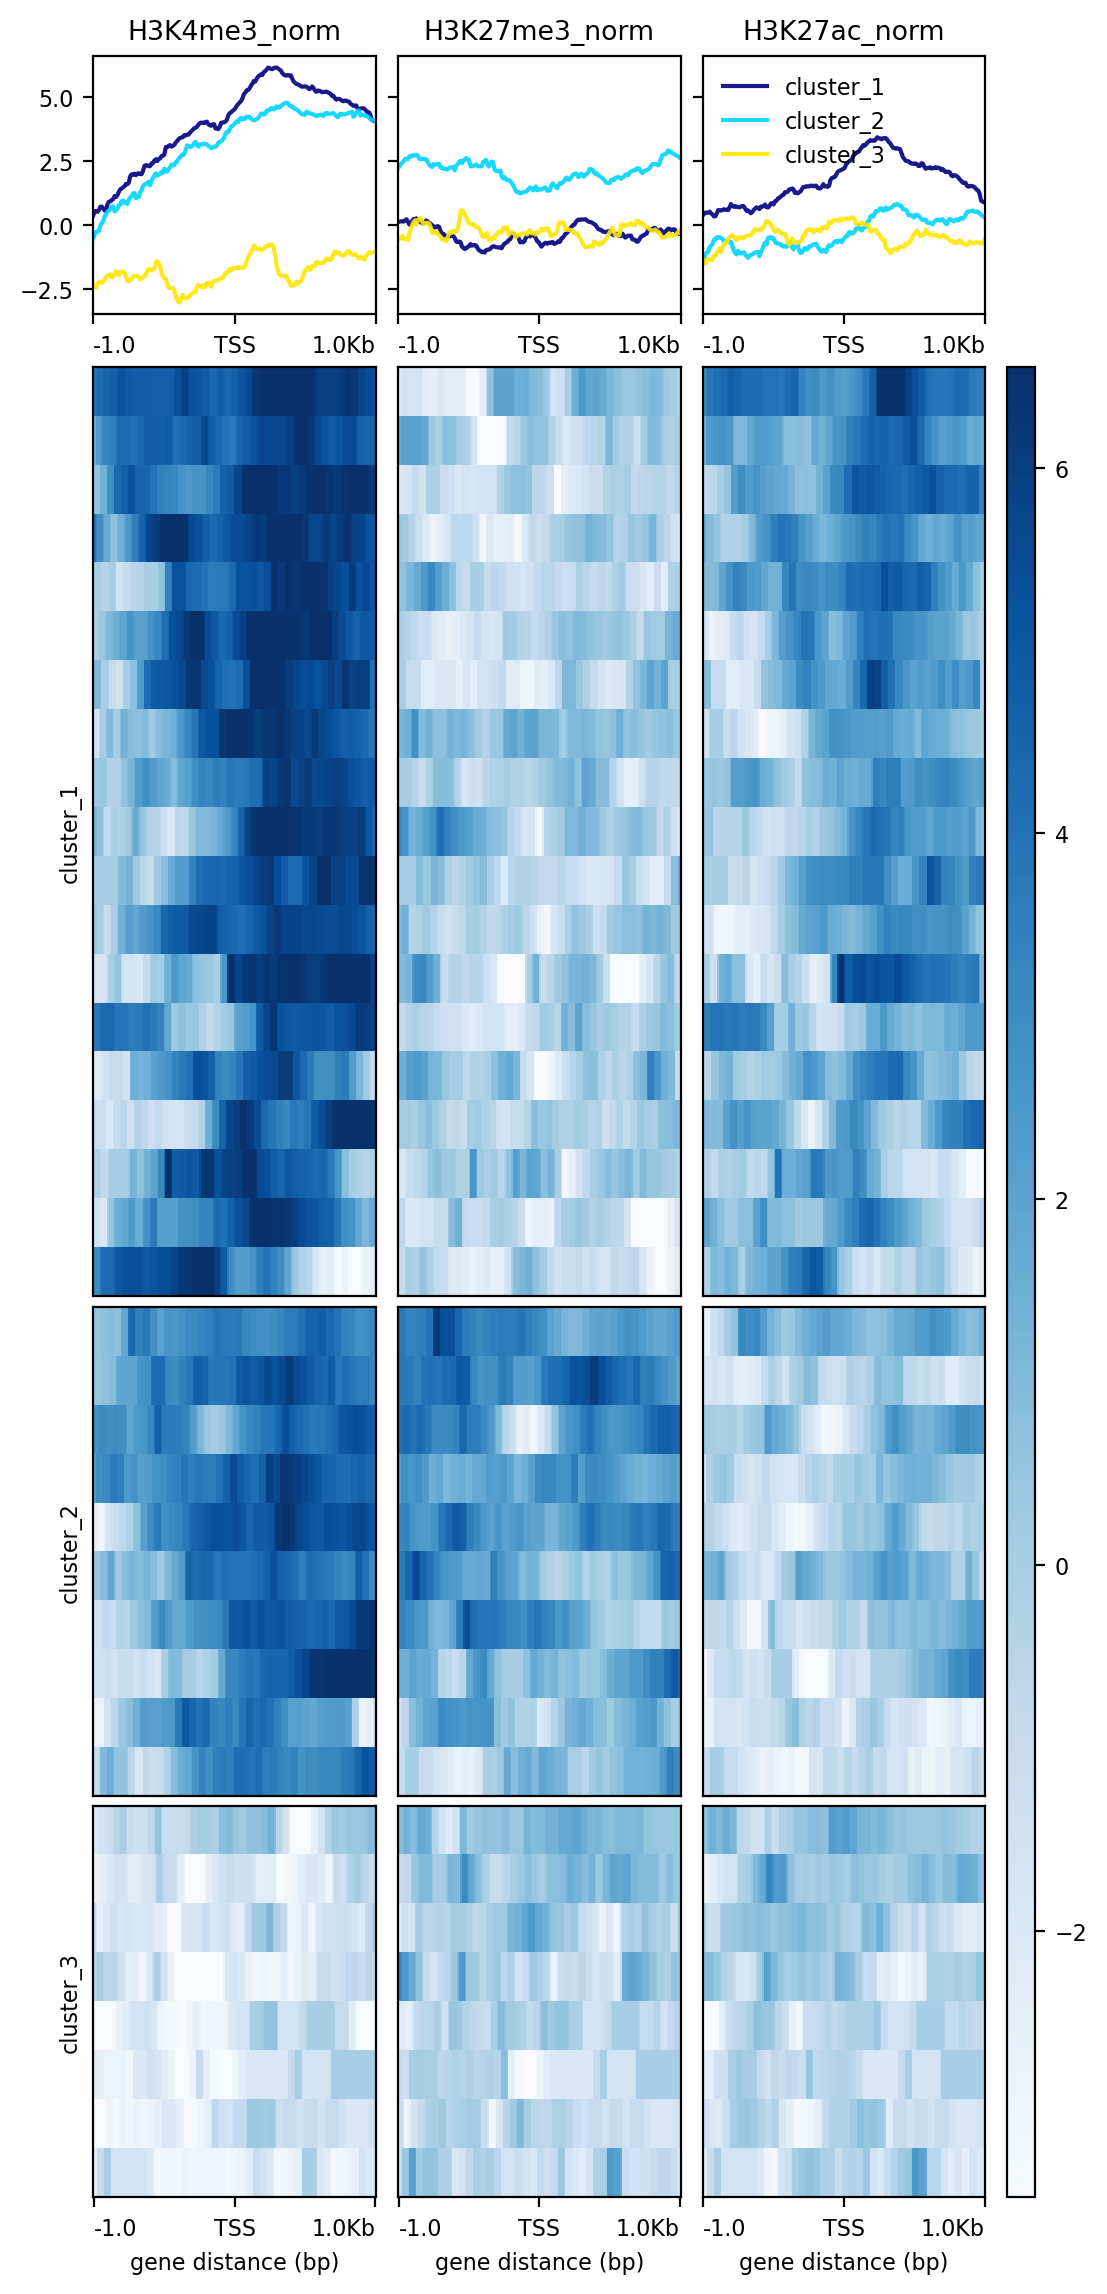
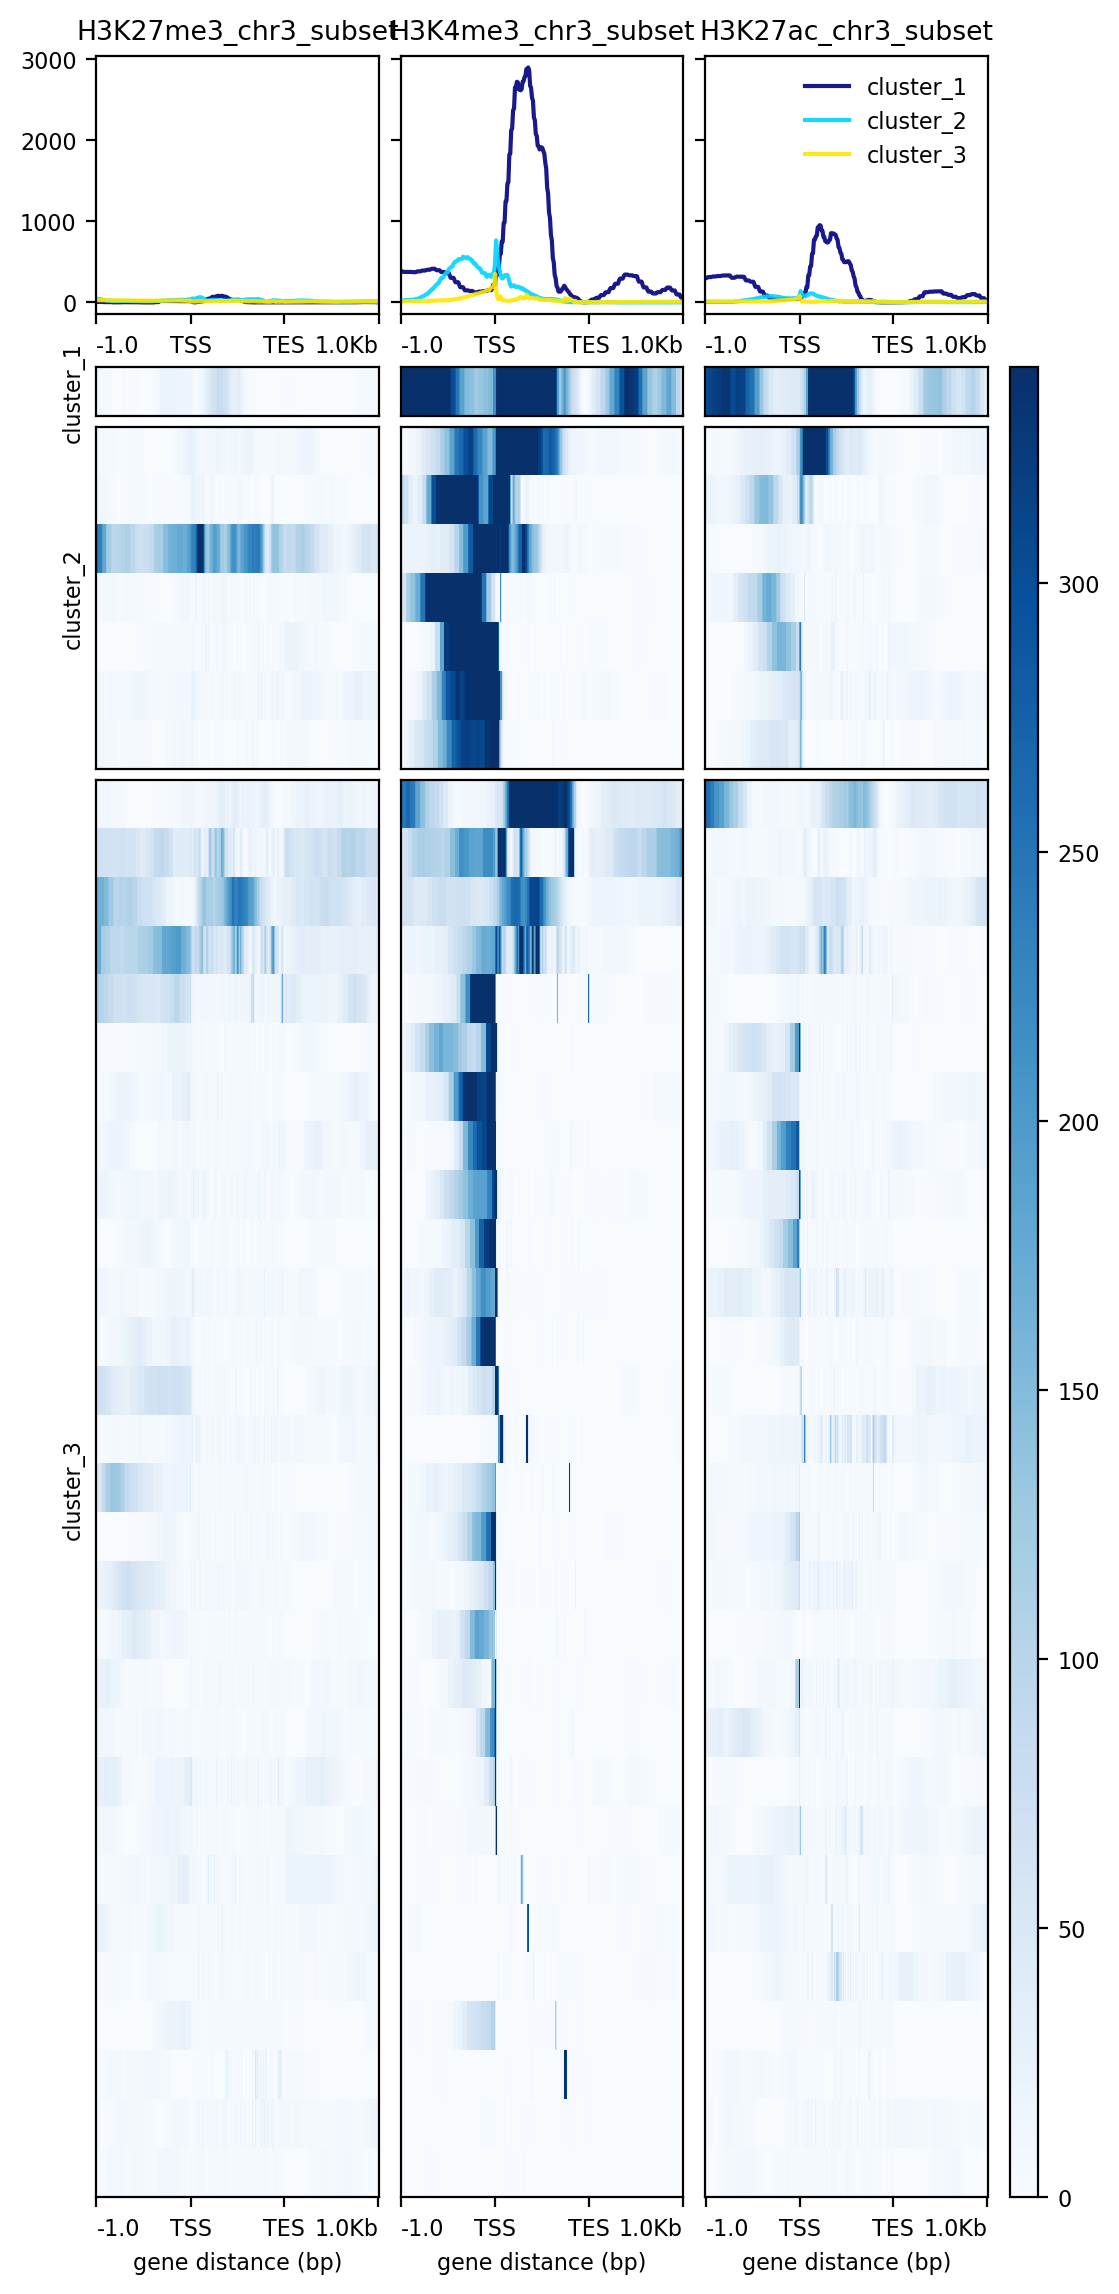
Assignment_5 update

diff --git a/Assignment_5/Assignment_5.md b/Assignment_5/Assignment_5.md
@@ -8,6 +8,9 @@ Assignment 5
           - [1. b) Copy to computer and load to
             IGV](#1-b-copy-to-computer-and-load-to-igv)
       - [2. Narrow vs Broad peaks](#2-narrow-vs-broad-peaks)
+          - [2. a) computeMatrix](#2-a-computematrix)
+          - [2. b) Heatmap using
+            Deeptools](#2-b-heatmap-using-deeptools)
       - [3. Peak calling](#3-peak-calling)
           - [a. Peak calling with macs2](#a-peak-calling-with-macs2)
           - [b. Understanding the peaks](#b-understanding-the-peaks)
@@ -143,21 +146,43 @@ pscp -P 22 cbarcl01@gi-edu-sv4.bme.ubc.ca:/home/cbarcl01/Assignment_5/input_chr3
 ## Tip, use the "File" tab to "load from file" option to choose the files from your computer directories
 
 ## 3. Change the visualization of the files to see the following position: ** chr3:93,470,124-93,471,058 **
+
 #?# Include a screenshot of your IGV session right after this code chunk (using the Rmarkdown syntax)  - 2 pt
+
 #?# Explore this region by zooming in and out and navigating around. What do you see? Is there something similar across all the different files that stands out on this region? Is there anything peculiar about the DNA sequence at this locus?- 3 pt
+
 ## Tip: sometimes track signal will be truncated to a pre-set maximum. If you right-click the track label (left) and select "autoscale", it will automatically adust the scales of the track to the range of your data. Try playing around with the track settings to see their effect.
 
 ## 4. This file (/usr/local/share/data/assignment_5/hg38_blacklisted_regions.bed) contains the hg38 blacklisted regions. Load it into IGV along with all the other files. 
+
+### 4.1 first I copied to my local computer then I loaded it into IGV 
+
+pscp -P 22 cbarcl01@gi-edu-sv4.bme.ubc.ca:/usr/local/share/data/assignment_5/hg38.blacklist.bed C:\Users\cbarc\OneDrive\Desktop
 
 ## 5. Look at the following region again (chr3:93,470,124-93,471,058). 
 #?# What can you say now about the similarities between the files at this region? In your own words, explain what a blacklisted region is and if you think this region should be excluded a ChIP-seq analysis. - 1.5 pt
 ```
 
-**Add screenshot of your IGV session here: **
+**Explore this region, what do you see? Is there something similar
+across all the different files that stands out on this region? Is there
+anything peculiar about the DNA sequence at this locus?3 pt**
 
-``` r
-##![Image screenshot name 1](C:\Users\cbarc\OneDrive\Desktop\git_temp\CB_BMEG591E-repository\Assignment_5\XXX.jpg)
-```
+**Add screenshot of your IGV session here**
+
+\#\#![Image screenshot name
+1](C:\\Users\\cbarc\\OneDrive\\Desktop\\git_temp\\CB_BMEG591E-repository\\Assignment_5\\IGV_Screenshot.png)
+
+***What can you say now about the similarities between the files at this
+region?***
+
+The similarities between these files align with the blacklisted region,
+potentially therefore what we are seeing is due to the noise at the
+blacklisted region rather than true signal reads.
+
+***Explain what a blacklisted region is and if you think this region
+should be excluded in a ChIP-seq analysis***
+
+Blacklisted regions are regions in the human genome
 
 ## 2\. Narrow vs Broad peaks
 
@@ -171,6 +196,8 @@ Active transcription marks (H3K4me3 and H3K27ac) tend to form a sharper
 coverage peaks at transcription start sites (H3K27ac is also at
 enhancers), while repression marks cover a broader area (H3K27me3).
 Here, we’re going to inspect their distributions relative to genes.
+
+### 2\. a) computeMatrix
 
 ``` bash
 
@@ -189,7 +216,12 @@ Here, we’re going to inspect their distributions relative to genes.
 ## - Use all 3 input-normalized bigWig files (H3K4me3, H3K27ac, H3K27me3) as signal tracks
 #?# Write the command you used to run it below: - 1.5 pt
 
-computeMatrix reference-point -S /usr/local/share/data/assignment_5/H3K4me3_norm.bw /usr/local/share/data/assignment_5/H3K27me3_norm.bw /usr/local/share/data/assignment_5/H3K27ac_norm.bw -R /usr/local/share/data/assignment_5/reference_genes.bed -a 1000 -b 1000 -o ./computematrixRP.gz
+computeMatrix scale-regions -S /usr/local/share/data/assignment_5/H3K4me3_norm.bw /usr/local/share/data/assignment_5/H3K27me3_norm.bw /usr/local/share/data/assignment_5/H3K27ac_norm.bw -R /usr/local/share/data/assignment_5/reference_genes.bed -a 1000 -b 1000 -o ./computematrixRP.gz
+```
+
+### 2\. b) Heatmap using Deeptools
+
+``` bash
 
 ## Now that the scores matrix has been computed, we can use it to create a heatmap to provide a better visual representation of the reads distrubution across our reference genes (provided in the reference_gened.bed file)
 ## Use the deepTools ** plotHeatmap ** function to create a heatmap following this criteria: 
@@ -199,11 +231,11 @@ computeMatrix reference-point -S /usr/local/share/data/assignment_5/H3K4me3_norm
 #?# Type the command you used to run it below: - 1.5
 
 plotHeatmap -m ./computematrixRP.gz \
-     -out Heatmap2.png \
+     -out Heatmap1.png \
      --colorMap 'Blues' --kmeans 3
      
-     
-pscp -P 22 cbarcl01@gi-edu-sv4.bme.ubc.ca:/home/cbarcl01/Assignment_5/Heatmap2.png C:\Users\cbarc\OneDrive\Desktop ##to copy to local comp for screenshot
+##then used the below code to copy to local comp for screenshot     
+pscp -P 22 cbarcl01@gi-edu-sv4.bme.ubc.ca:/home/cbarcl01/Assignment_5/Heatmap1.png C:\Users\cbarc\OneDrive\Desktop 
 
 #?# Add a screenshot of the plot right after this code chunk using Rmarkdown syntaxis - 1 pt 
 
@@ -211,19 +243,34 @@ pscp -P 22 cbarcl01@gi-edu-sv4.bme.ubc.ca:/home/cbarcl01/Assignment_5/Heatmap2.p
 #?# Explain what you are looking at (Axes, colours, curves). Where are the marks located? What are the differences between the clusters? - 3 pts
 ```
 
-**Add screenshot here: **
+**Add screenshot here**
 
-\#\#![Heatmap](C:\\Users\\cbarc\\OneDrive\\Desktop\\git_temp\\CB_BMEG591E-repository\\Assignment_5\\Heatmap2.png)
+\#\#![Heatmap for normalised bigwig
+files](C:\\Users\\cbarc\\OneDrive\\Desktop\\git_temp\\CB_BMEG591E-repository\\Assignment_5\\Heatmap1.png)
 
 ``` bash
 ## Now the above heatmap was made with the ratio of ChIP to input. Repeat the process above, but this time using the raw bigwig files (not input-normalized). 
 #?# Type the commands you used for this below - 1 pt
 
+computeMatrix scale-regions -S /home/cbarcl01/Assignment_5/H3K27me3_chr3_subset.bw  /home/cbarcl01/Assignment_5/H3K4me3_chr3_subset.bw  /home/cbarcl01/Assignment_5/H3K27ac_chr3_subset.bw -R /usr/local/share/data/assignment_5/reference_genes.bed -a 1000 -b 1000 -o ./computematrix2.gz
+
+plotHeatmap -m ./computematrix2.gz \
+     -out Heatmap2.png \
+     --colorMap 'Blues' --kmeans 3
+     
+pscp -P 22 cbarcl01@gi-edu-sv4.bme.ubc.ca:/home/cbarcl01/Assignment_5/Heatmap2.png C:\Users\cbarc\OneDrive\Desktop 
+
+
 #?# Include a screenshot of this analysis, below this code block. - 1 pt
 #?# How does this compare to the input-normalized data? Why do you think this is? - 1 pt
 ```
 
-**Add screenshot here: **
+**Add screenshot here**
+
+![Heatmap with raw bigwig
+files](C:\\Users\\cbarc\\OneDrive\\Desktop\\git_temp\\CB_BMEG591E-repository\\Assignment_5\\Heatmap2.png)
+
+***How does this compare to the input-normalized data? Why? 1 pt***
 
 ## 3\. Peak calling
 
@@ -236,10 +283,18 @@ three histone marks. In order to get the enrichments, we will run the
 ``` bash
 
 ## Tip: Make sure to read the documentation (using the -h flag) for the *masc2 callpeak* command
+
 ## Run the callpeak command of the macs2 tool, once for each of H3K27ac, H3K27Me3, H3K4Me3
 ## Each time, use the input as the control 
 ## For H3K27Me3, you should call "broad" peaks because these signals tend to form longer domains and not acute peaks.
+
 #?# Type the commands you used below: - 1.5 pt
+
+macs2 callpeak -t /usr/local/share/data/assignment_5/H3K27ac_chr3_subset.bam -c /usr/local/share/data/assignment_5/input_chr3_subset.bam > ./H3K27ac_callpeaks.narrowPeak
+
+macs2 callpeak -t /usr/local/share/data/assignment_5/H3K4me3_chr3_subset.bam -c /usr/local/share/data/assignment_5/input_chr3_subset.bam > ./H3K4me3_callpeaks.narrowPeak
+
+macs2 callpeak -t --broad /usr/local/share/data/assignment_5/H3K27Me3_chr3_subset.bam -c /usr/local/share/data/assignment_5/input_chr3_subset.bam > ./H3K27Me3_callpeaks.broadPeak
 ```
 
 ### b. Understanding the peaks
